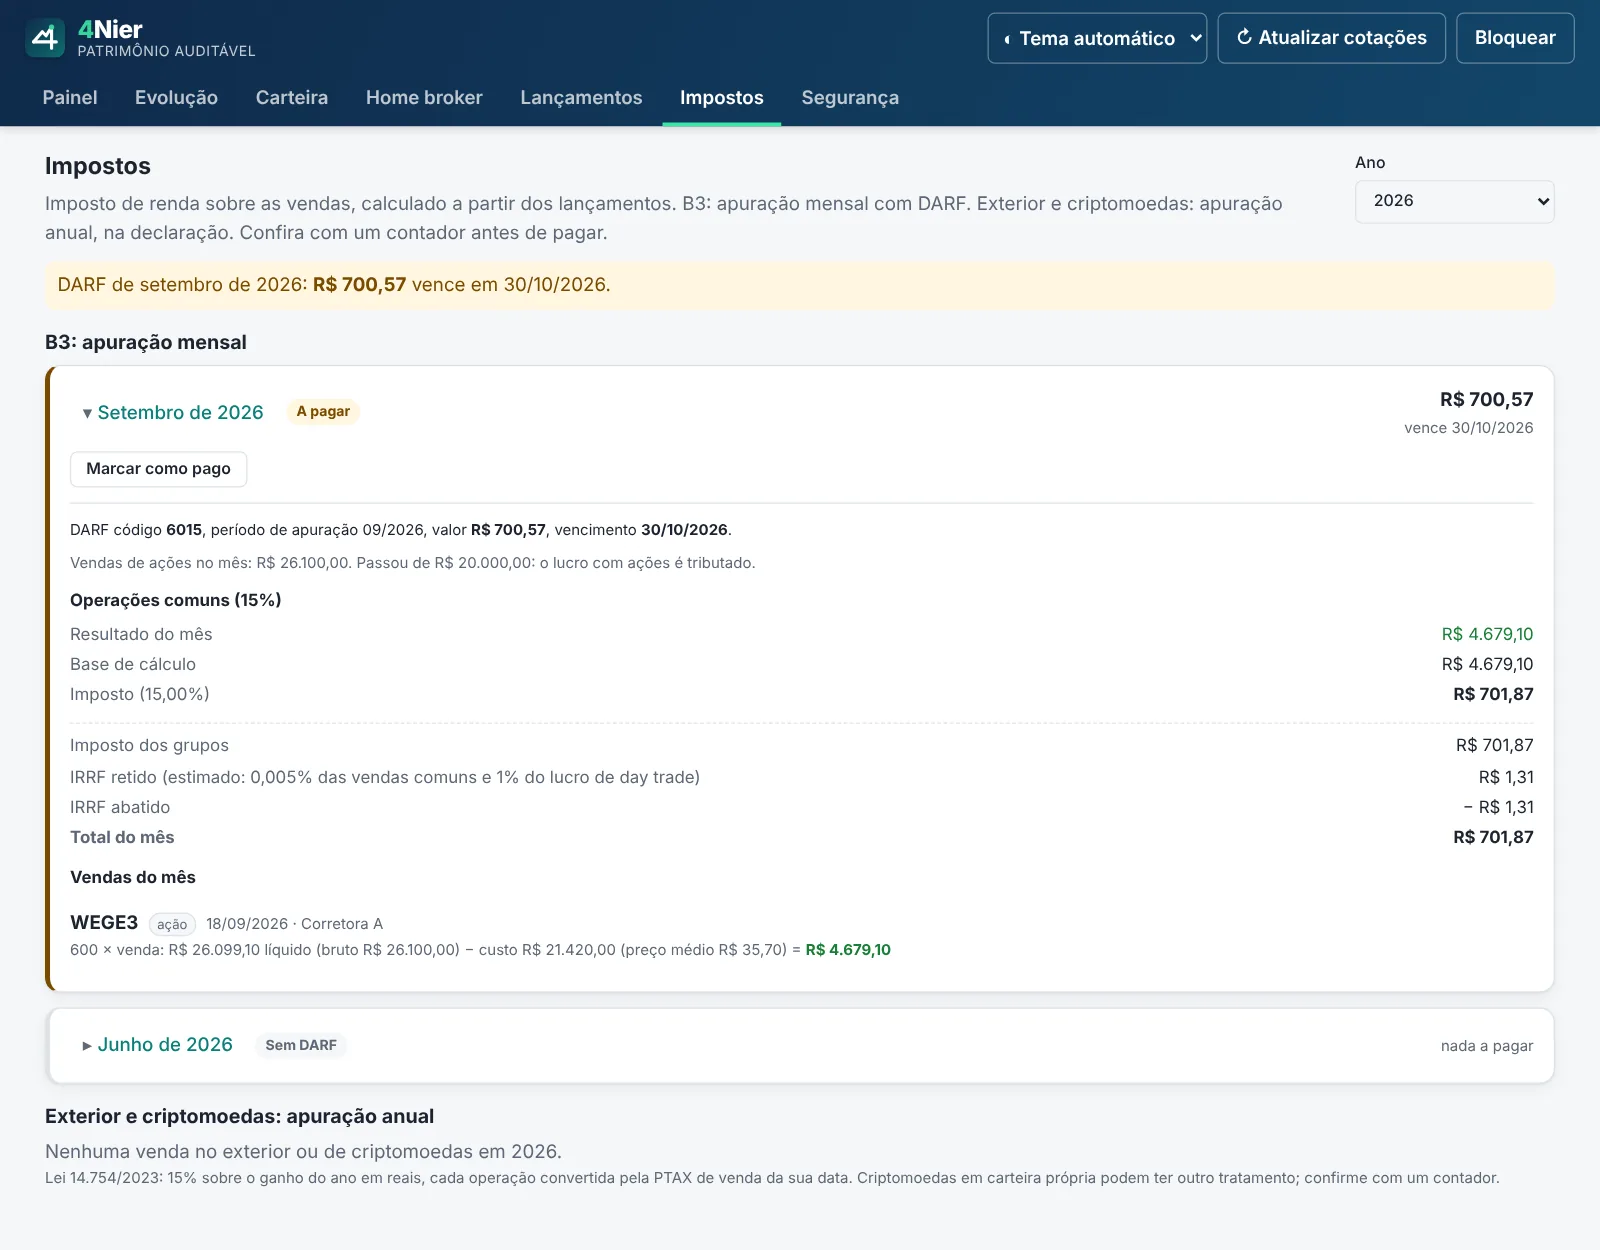
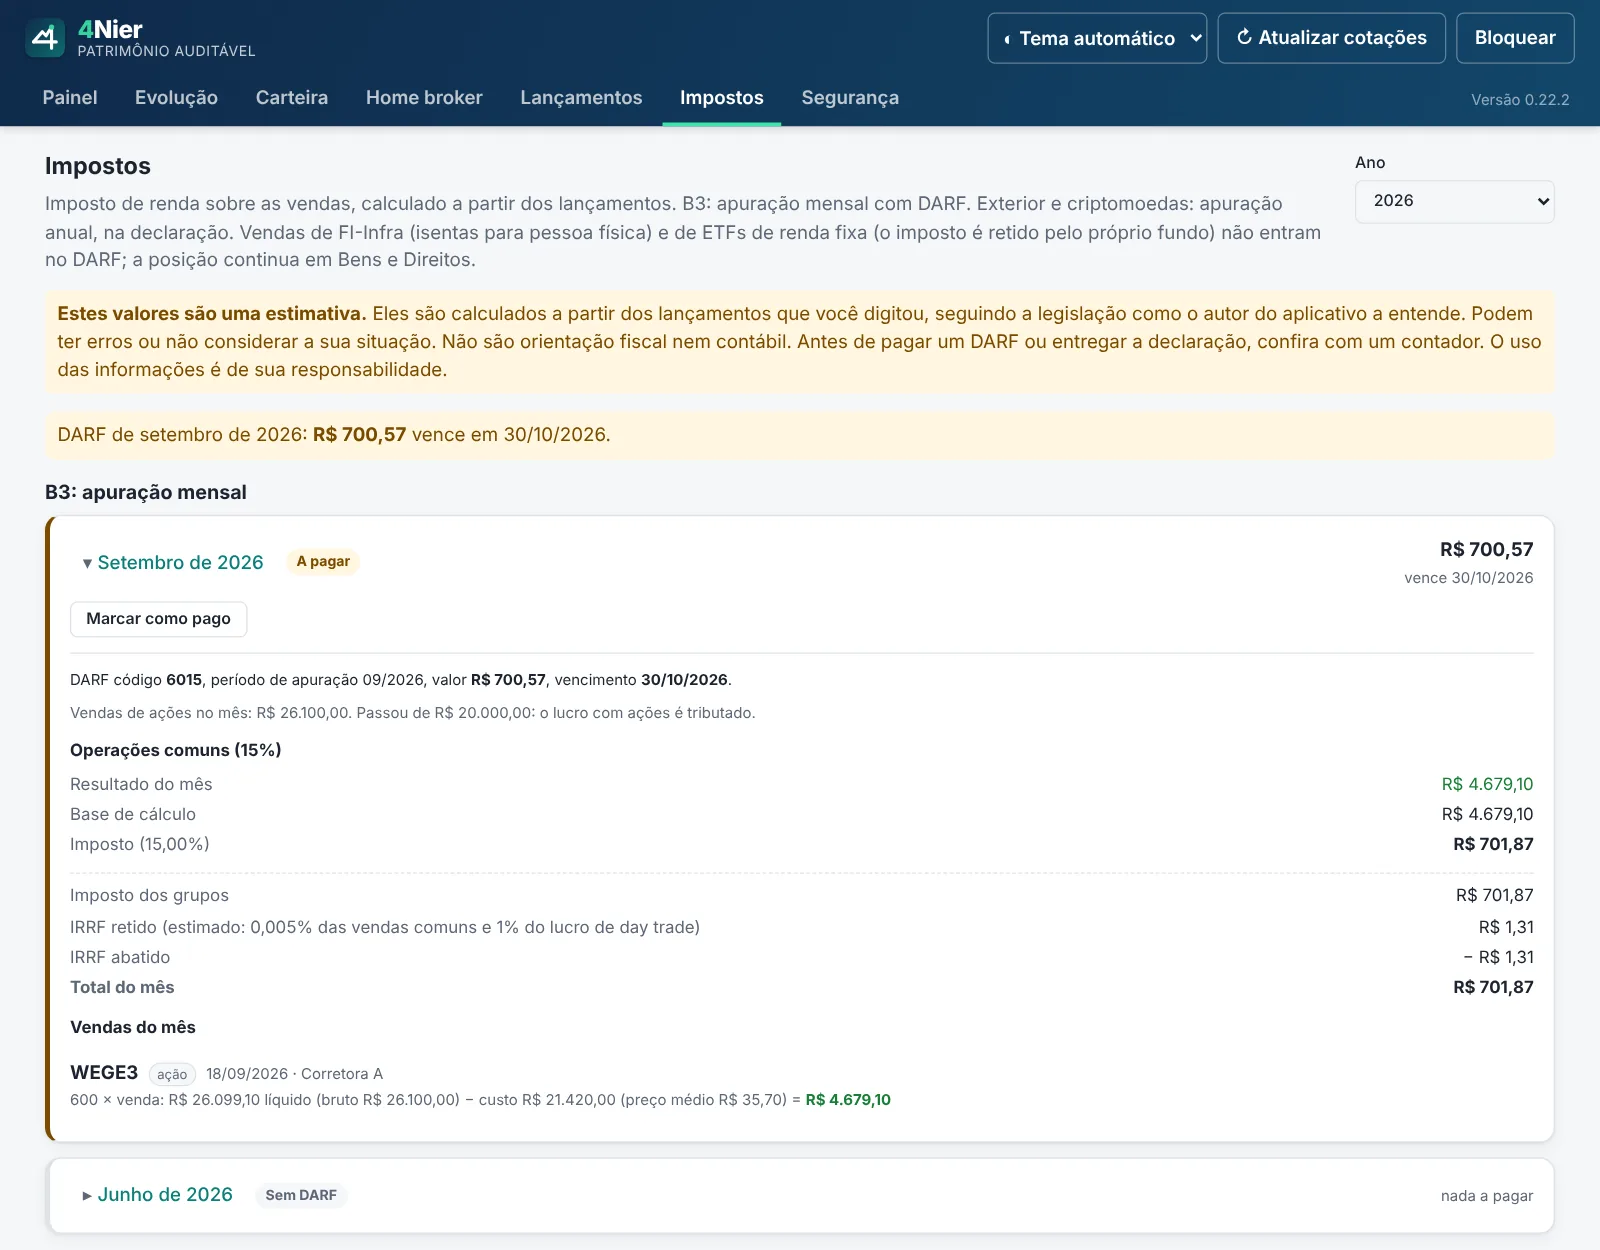
Impostos: aviso de estimativa e endereço novo 4nier-app/patrimonio (0.22.2) (#33)
* Impostos: aviso de que os valores são uma estimativa e devem ser conferidos com um contador (0.22.2)

Claude-Session: https://claude.ai/code/session_01JSB1ZucdNYsjtAoaPFZu9f

* Site: tela do Painel com o aviso de estimativa no DARF

Claude-Session: https://claude.ai/code/session_01JSB1ZucdNYsjtAoaPFZu9f

* Endereço novo: github.com/4nier-app/patrimonio e 4nier-app.github.io/patrimonio

Claude-Session: https://claude.ai/code/session_01JSB1ZucdNYsjtAoaPFZu9f

---------

diff --git a/docs/index.html b/docs/index.html
@@ -127,7 +127,7 @@ footer .wrap { display: flex; flex-wrap: wrap; gap: 16px; justify-content: space
         <h1>Seus investimentos num lugar só, com cada conta à mostra.</h1>
         <p class="lead">Ações, FIIs, fundos, Tesouro, exterior e cripto, consolidados em reais. Rentabilidade pelo tempo real em que o dinheiro ficou aplicado, DARF calculado e Bens e Direitos pronto para a declaração. Grátis e de código aberto.</p>
         <div class="download">
-          <a class="btn" href="https://github.com/marcelo-fournier/4nier-patrimonio/releases/latest">Baixar grátis</a>
+          <a class="btn" href="https://github.com/4nier-app/patrimonio/releases/latest">Baixar grátis</a>
           <a class="btn ghost" href="#instalar">Como instalar</a>
         </div>
         <p class="note">Para computador com Windows, Mac ou Linux. Os dados ficam só no seu computador, sem nuvem e sem celular, por segurança.</p>
@@ -189,7 +189,7 @@ footer .wrap { display: flex; flex-wrap: wrap; gap: 16px; justify-content: space
 <section id="instalar">
   <div class="wrap">
     <h2>Como instalar</h2>
-    <p class="sub">Baixe o arquivo do seu sistema na <a href="https://github.com/marcelo-fournier/4nier-patrimonio/releases/latest">página de versões</a>. O aplicativo ainda não tem assinatura digital paga, por isso o sistema mostra um aviso na primeira vez.</p>
+    <p class="sub">Baixe o arquivo do seu sistema na <a href="https://github.com/4nier-app/patrimonio/releases/latest">página de versões</a>. O aplicativo ainda não tem assinatura digital paga, por isso o sistema mostra um aviso na primeira vez.</p>
     <div class="steps">
       <div class="step">
         <h3>Windows 10 ou 11</h3>
@@ -222,7 +222,7 @@ footer .wrap { display: flex; flex-wrap: wrap; gap: 16px; justify-content: space
   <div class="wrap">
     <h2>Antes de usar</h2>
     <div class="warn">
-      <p><b>O aplicativo ajuda a organizar, não substitui um contador.</b> Os cálculos de imposto seguem a legislação como o autor a entende e podem ter erros. Confira os valores antes de pagar um DARF ou entregar a declaração.</p>
+      <p><b>O aplicativo ajuda a organizar, não substitui um contador.</b> Os valores de imposto são uma estimativa, calculada a partir dos seus lançamentos e da legislação como o autor a entende. Podem ter erros ou não considerar a sua situação, e não são orientação fiscal nem contábil. Antes de pagar um DARF ou entregar a declaração, confira com um contador. O uso das informações é de sua responsabilidade.</p>
       <p>Não é recomendação de investimento. Cotações e índices vêm de fontes públicas (B3, Banco Central, CVM, Tesouro Transparente, Nasdaq, Yahoo Finance e Coinbase) e podem atrasar ou faltar.</p>
       <p>Guarde a chave de recuperação e faça cópias de segurança: sem a senha ou a chave, ninguém consegue abrir os seus dados, nem o autor.</p>
     </div>
@@ -242,7 +242,7 @@ footer .wrap { display: flex; flex-wrap: wrap; gap: 16px; justify-content: space
     <details><summary>Tem versão para celular?</summary><p>Não, de propósito. Os dados ficam só no computador, sem nuvem, o que reduz o risco de vazamento.</p></details>
     <details><summary>Quais corretoras são lidas automaticamente?</summary><p>Notas em PDF no padrão SINACOR, usado pela maioria das corretoras brasileiras, e as confirmações da Nomad. Para as outras, use a planilha CSV ou lance à mão.</p></details>
     <details><summary>Dá para trazer todo o histórico da bolsa de uma vez?</summary><p>Sim. Na Área do Investidor da B3, abra Extratos › Negociação, escolha o período e baixe em Excel. Em Lançamentos › Importar da B3, o app lê as compras e vendas de ações, FIIs e ETFs de todas as corretoras e calcula as taxas. Dias que já foram lançados por nota de corretagem ficam de fora. O arquivo é lido só no seu computador.</p></details>
-    <details><summary>Encontrei um erro. Como aviso?</summary><p>Abra um <a href="https://github.com/marcelo-fournier/4nier-patrimonio/issues/new?template=problema.yml">relato de problema</a> no GitHub (é preciso uma conta gratuita). Nunca anexe notas, extratos ou dados pessoais: descreva o caso com valores fictícios.</p></details>
+    <details><summary>Encontrei um erro. Como aviso?</summary><p>Abra um <a href="https://github.com/4nier-app/patrimonio/issues/new?template=problema.yml">relato de problema</a> no GitHub (é preciso uma conta gratuita). Nunca anexe notas, extratos ou dados pessoais: descreva o caso com valores fictícios.</p></details>
   </div>
 </section>
 </main>
@@ -250,7 +250,7 @@ footer .wrap { display: flex; flex-wrap: wrap; gap: 16px; justify-content: space
 <footer>
   <div class="wrap">
     <span>4Nier Patrimônio Auditável · código aberto sob a licença GPL-3.0</span>
-    <span><a href="https://github.com/marcelo-fournier/4nier-patrimonio">Código no GitHub</a> · <a href="https://github.com/marcelo-fournier/4nier-patrimonio/issues/new?template=problema.yml">Reportar problema</a> · <a href="privacidade.html">Privacidade</a></span>
+    <span><a href="https://github.com/4nier-app/patrimonio">Código no GitHub</a> · <a href="https://github.com/4nier-app/patrimonio/issues/new?template=problema.yml">Reportar problema</a> · <a href="privacidade.html">Privacidade</a></span>
   </div>
 </footer>
 

diff --git a/src/screens/Taxes.tsx b/src/screens/Taxes.tsx
@@ -400,8 +400,7 @@ export default function Taxes({ refresh, onChanged }: { refresh: number; onChang
           <p className="muted">
             Imposto de renda sobre as vendas, calculado a partir dos lançamentos. B3: apuração mensal com DARF. Exterior e
             criptomoedas: apuração anual, na declaração. Vendas de FI-Infra (isentas para pessoa física) e de ETFs de renda fixa (o
-            imposto é retido pelo próprio fundo) não entram no DARF; a posição continua em Bens e Direitos. Confira com um contador antes
-            de pagar.
+            imposto é retido pelo próprio fundo) não entram no DARF; a posição continua em Bens e Direitos.
           </p>
         </div>
         {years.length > 0 && (
@@ -417,6 +416,13 @@ export default function Taxes({ refresh, onChanged }: { refresh: number; onChang
           </label>
         )}
       </div>
+
+      <p className="warning tax-disclaimer" role="note">
+        <b>Estes valores são uma estimativa.</b> Eles são calculados a partir dos lançamentos que você digitou, seguindo a legislação
+        como o autor do aplicativo a entende. Podem ter erros ou não considerar a sua situação. Não são orientação fiscal nem
+        contábil. Antes de pagar um DARF ou entregar a declaração, confira com um contador. O uso das informações é de sua
+        responsabilidade.
+      </p>
 
       {error && <p className="error">{error}</p>}
 

diff --git a/src/screens/Home.tsx b/src/screens/Home.tsx
@@ -308,7 +308,7 @@ export default function Home({ status, onLocked, onChanged }: Props) {
         <div className={`banner warning${darfs.some((m) => m.status === "ATRASADO") ? " overdue" : ""}`} role="status">
           {darfs.length === 1
             ? `DARF de ${money(darfs[0].darf)} ${darfs[0].status === "ATRASADO" ? "venceu" : "vence"} em ${date(darfs[0].due_date)}.`
-            : `${darfs.length} DARFs a pagar, somando ${money(String(darfs.reduce((t, m) => t + Number(m.darf), 0)))}.`}{" "}
+            : `${darfs.length} DARFs a pagar, somando ${money(String(darfs.reduce((t, m) => t + Number(m.darf), 0)))}.`} É uma estimativa: confira com um contador.{" "}
           <button className="link" onClick={() => setTab("impostos")}>
             Ver Impostos
           </button>

diff --git a/docs/privacidade.html b/docs/privacidade.html
@@ -46,7 +46,7 @@ a { color: var(--teal); }
   <p>O aplicativo não é direcionado a crianças e não coleta dados de ninguém, de qualquer idade.</p>
 
   <h2>Código aberto</h2>
-  <p>O código é aberto (licença GPL-3.0) e pode ser conferido em <a href="https://github.com/marcelo-fournier/4nier-patrimonio">github.com/marcelo-fournier/4nier-patrimonio</a>.</p>
+  <p>O código é aberto (licença GPL-3.0) e pode ser conferido em <a href="https://github.com/4nier-app/patrimonio">github.com/4nier-app/patrimonio</a>.</p>
 
   <h2>Contato</h2>
   <p>Dúvidas sobre privacidade: <a href="mailto:contato.4nier@outlook.com">contato.4nier@outlook.com</a>.</p>

diff --git a/src/screens/Panel.tsx b/src/screens/Panel.tsx
@@ -190,7 +190,7 @@ export default function Panel({
           <ul>
             {darfs.map((d) => (
               <li key={d.month}>
-                DARF de {money(d.darf)} {d.status === "ATRASADO" ? "venceu" : "vence"} em {date(d.due_date)}.{" "}
+                DARF de {money(d.darf)} {d.status === "ATRASADO" ? "venceu" : "vence"} em {date(d.due_date)}. É uma estimativa: confira com um contador.{" "}
                 <button type="button" className="link" onClick={() => go("impostos")}>
                   Ver em Impostos ›
                 </button>

diff --git a/src/styles.css b/src/styles.css
@@ -646,3 +646,4 @@ th.sortable .sort-btn:focus-visible { outline: 2px solid var(--accent); outline-
 .goal-form { display: flex; gap: 16px; flex-wrap: wrap; align-items: flex-end; }
 .goal-form label:not(.check) { min-width: 200px; }
 p.pos, strong.pos { color: var(--ok); }
+.tax-disclaimer { margin: 0 0 14px; line-height: 1.5; }

diff --git a/crates/providers/src/github.rs b/crates/providers/src/github.rs
@@ -7,9 +7,9 @@ use crate::{http, ProviderError, Result};
 
 /// Página onde a pessoa baixa a versão nova.
 pub const RELEASES_PAGE: &str =
-    "https://github.com/marcelo-fournier/4nier-patrimonio/releases/latest";
+    "https://github.com/4nier-app/patrimonio/releases/latest";
 const LATEST_API: &str =
-    "https://api.github.com/repos/marcelo-fournier/4nier-patrimonio/releases/latest";
+    "https://api.github.com/repos/4nier-app/patrimonio/releases/latest";
 
 #[derive(Deserialize)]
 struct Release {

diff --git a/crates/providers/src/http.rs b/crates/providers/src/http.rs
@@ -9,7 +9,7 @@ use crate::{ProviderError, Result};
 const USER_AGENT: &str = concat!(
     "Mozilla/5.0 (Windows NT 10.0; Win64; x64) CarteiraAuditavel/",
     env!("CARGO_PKG_VERSION"),
-    " (+https://github.com/marcelo-fournier/4nier-patrimonio)"
+    " (+https://github.com/4nier-app/patrimonio)"
 );
 const MAX_BYTES: u64 = 200 * 1024 * 1024;
 

diff --git a/README.md b/README.md
@@ -4,7 +4,7 @@ Controle de investimentos B3 + exterior com rentabilidade auditável, 100% local
 
 ![Painel do 4Nier com dados fictícios](docs/img/painel.webp)
 
-**[Baixar a versão mais recente](https://github.com/marcelo-fournier/4nier-patrimonio/releases/latest)** · para Windows, Mac e Linux · grátis e de código aberto
+**[Baixar a versão mais recente](https://github.com/4nier-app/patrimonio/releases/latest)** · para Windows, Mac e Linux · grátis e de código aberto
 
 Os dados ficam só no seu computador, sem nuvem e sem celular, por segurança.
 
@@ -60,7 +60,7 @@ Os dados ficam só no seu computador, sem nuvem e sem celular, por segurança.
 ## Instalação
 
 Baixe o arquivo do seu sistema na página
-[Releases](https://github.com/marcelo-fournier/4nier-patrimonio/releases/latest).
+[Releases](https://github.com/4nier-app/patrimonio/releases/latest).
 O aplicativo ainda não tem assinatura digital paga, então o sistema avisa na
 primeira vez:
 
@@ -70,7 +70,7 @@ primeira vez:
   na primeira vez, clique com o botão direito no app → **Abrir**.
 - **Linux:** `.deb` (Ubuntu, Debian) ou `.AppImage` (marque como executável).
 
-Encontrou um erro? [Reporte aqui](https://github.com/marcelo-fournier/4nier-patrimonio/issues/new?template=problema.yml),
+Encontrou um erro? [Reporte aqui](https://github.com/4nier-app/patrimonio/issues/new?template=problema.yml),
 sempre com valores fictícios.
 
 ## Como funciona
@@ -143,8 +143,13 @@ e o CI recusa qualquer PDF ou planilha fora dessa pasta.
 
 ## Aviso
 
-Este software é uma ferramenta de apoio. Cálculos de imposto devem ser
-conferidos com um contador. Não há garantia de nenhum tipo (veja a licença).
+Este software é uma ferramenta de apoio. Os valores de imposto são uma
+estimativa, calculada a partir dos lançamentos que você digitou e da
+legislação como o autor a entende. Podem ter erros ou não considerar a sua
+situação, e não são orientação fiscal nem contábil. Antes de pagar um DARF ou
+entregar a declaração, confira com um contador. O uso das informações é de
+responsabilidade de quem usa o aplicativo. Não há garantia de nenhum tipo
+(veja a licença).
 
 ## Licença
 

diff --git a/CHANGELOG.md b/CHANGELOG.md
@@ -6,6 +6,18 @@ este histórico na tela "Histórico do sistema".
 O formato segue [Keep a Changelog](https://keepachangelog.com/pt-BR/1.1.0/) e
 as versões seguem [Versionamento Semântico](https://semver.org/lang/pt-BR/).
 
+## [0.22.2] - 2026-10-26
+
+### Alterado
+- Impostos: um aviso destacado no topo da aba deixa claro que os valores são
+  uma estimativa, que podem ter erros e que devem ser conferidos com um
+  contador antes de pagar um DARF ou entregar a declaração. O aviso de DARF no
+  Painel e no topo do app também lembra disso.
+- O projeto mudou de endereço: o código fica em
+  github.com/4nier-app/patrimonio e o site em 4nier-app.github.io/patrimonio.
+  Os links antigos do GitHub continuam funcionando; o aviso de nova versão já
+  procura no endereço novo.
+
 ## [0.22.1] - 2026-10-26
 
 ### Adicionado

diff --git a/docs/ARQUITETURA.md b/docs/ARQUITETURA.md
@@ -345,7 +345,7 @@ interface BrokerModule {
 
 ## 16. Decisões
 1. Licença: **GPL-3.0-or-later**.
-2. Repositório: **marcelo-fournier/4nier-patrimonio** (chamado carteira-auditavel enquanto era privado).
+2. Repositório: **4nier-app/patrimonio** (antes marcelo-fournier/4nier-patrimonio e, enquanto era privado, carteira-auditavel).
 3. PTAX: **venda de fechamento** do Banco Central (padrão da Receita para ativos no exterior, Lei 14.754/2023, art. 15).
 4. Plataforma prioritária para testes: **Windows**.
 5. Corretoras iniciais: Itaú e Nomad, mais CSV genérico. Outras via módulos.
